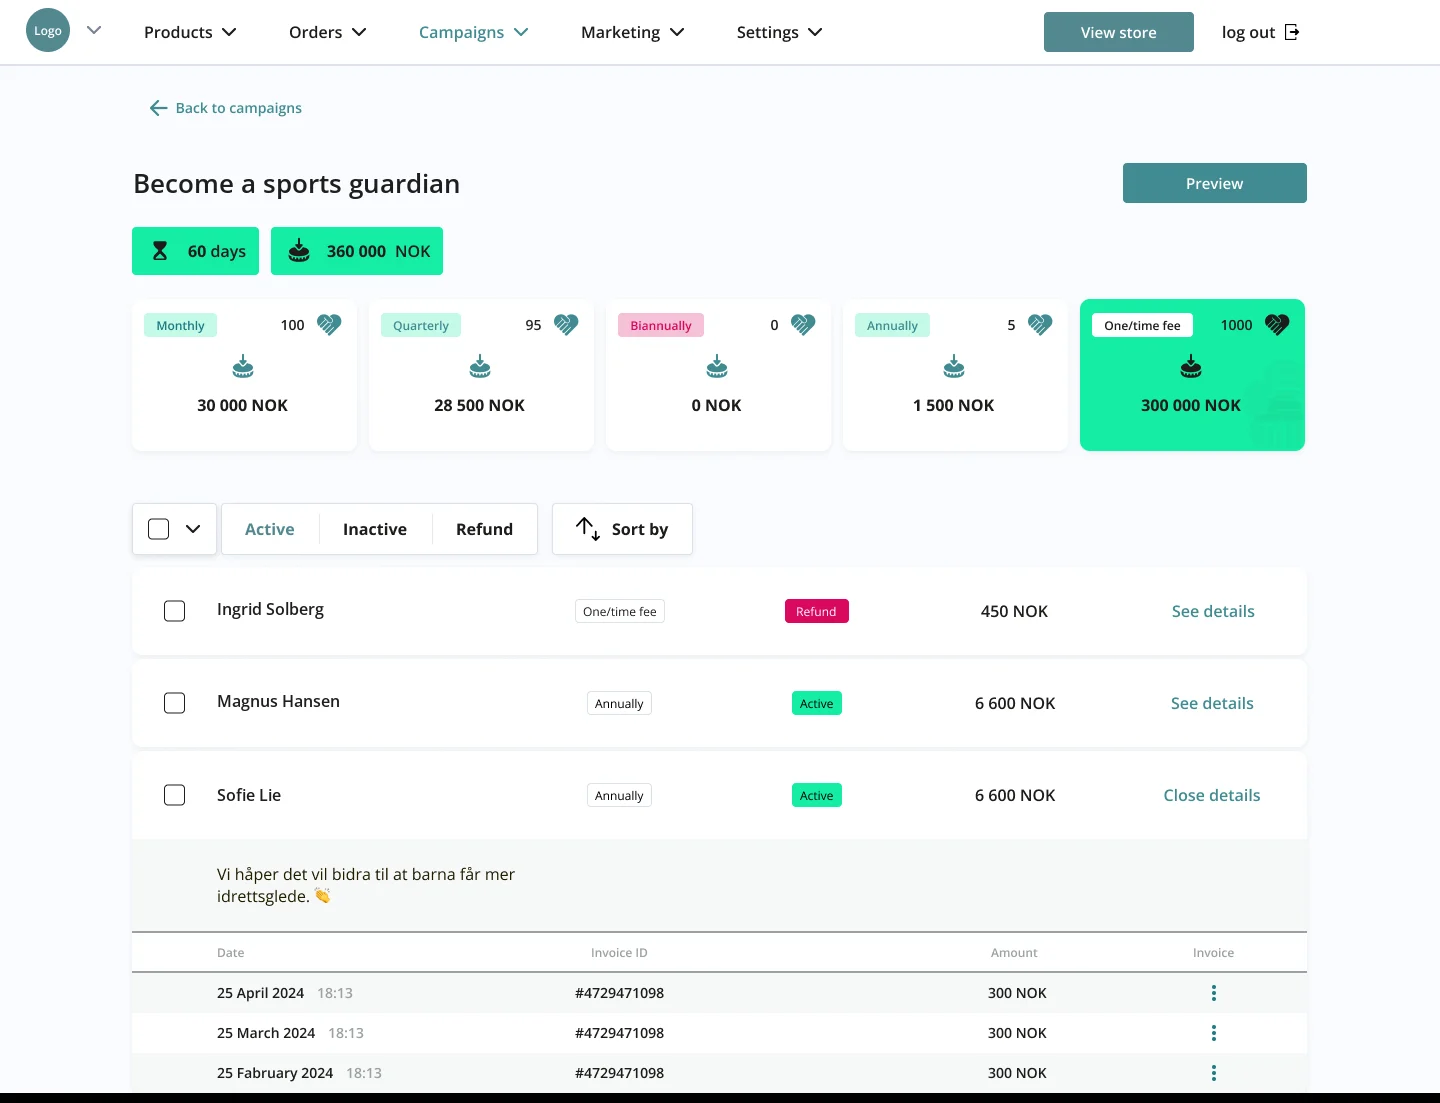
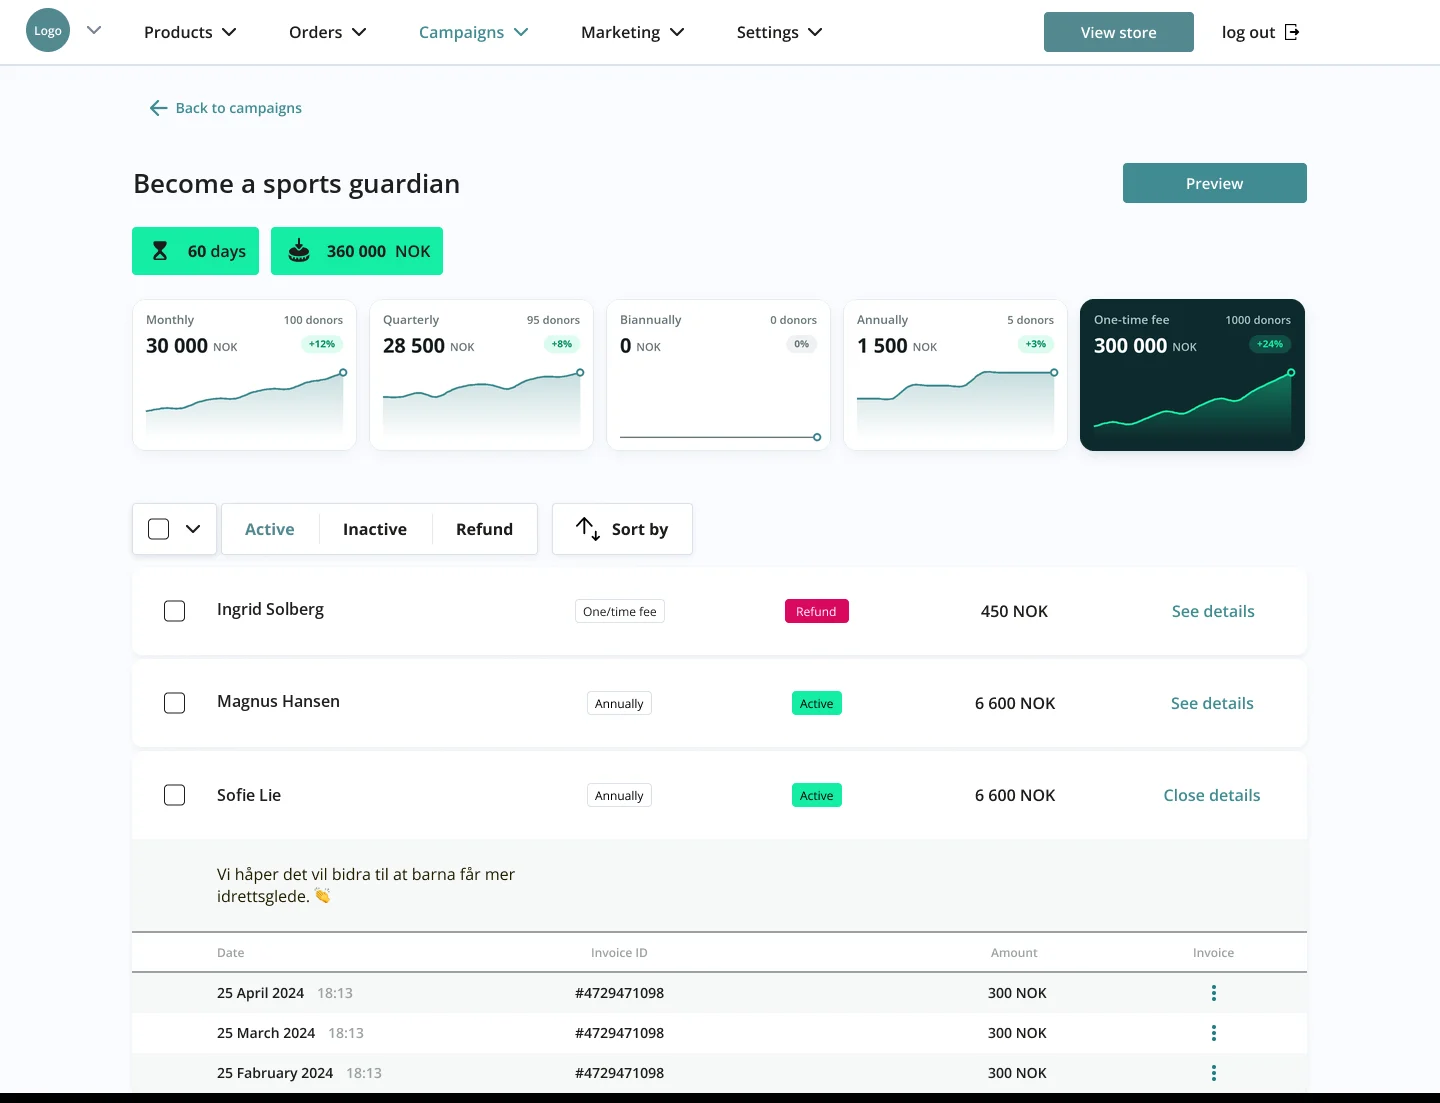
Sport Guardian: dashboard cards with area charts on the admin statistics, admin caption in two lines

Changed region(s): [[0.5938, 0.2466, 0.9062, 0.4316], [0.0938, 0.2774, 0.5, 0.3699], [0.5312, 0.2774, 0.5625, 0.3083]]

diff --git a/SportGuardian.html b/SportGuardian.html
@@ -272,7 +272,7 @@ footer .wrap{display:flex;justify-content:space-between;gap:16px;flex-wrap:wrap}
         <figure class="c1-6 rv"><div class="ph r43"><img src="assets/work/sport-guardian/cap-1536.webp" srcset="assets/work/sport-guardian/cap-768.webp 768w, assets/work/sport-guardian/cap-1536.webp 1536w" sizes="(max-width:720px) 100vw, 640px" alt="A teal five-panel cap with the white and green SG mark in the middle of the front." width="1536" height="1024" loading="lazy"></div></figure>
         <figure class="c7-12 rv" style="--d:.1s"><div class="panel"><img class="el c" src="assets/work/sport-guardian/el-create-donations.webp" alt="From the campaign builder: Accept donations from private persons and companies, and Select donation frequency, from monthly to a one-time fee, each with a short hint." width="1200" height="1183" loading="lazy"></div><figcaption>The club decides who can give and how often, with a hint under every choice.</figcaption></figure>
 
-        <figure class="c1-12 rv scroll"><div class="panel"><div class="browser" style="max-width:1000px"><div class="bar" aria-hidden="true"><i></i><i></i><i></i><span>admin.supporter.no</span></div><div class="vp fx" style="--to:-19.6%;--t:12s;--hd:4.514%"><img class="hd" src="assets/work/sport-guardian/screen-statistik-head.webp" alt="" width="1440" height="65" loading="lazy"><img src="assets/work/sport-guardian/screen-statistik-body.webp" alt="Campaign statistics in the admin panel: days left and amount raised, totals by frequency from monthly to one-time, and a list of donors with their status." width="1440" height="1038" loading="lazy"></div></div></div><figcaption>The admin panel: what each frequency brings in, and every donor, with refunds and cancellations in one place.</figcaption></figure>
+        <figure class="c1-12 rv scroll"><div class="panel"><div class="browser" style="max-width:1000px"><div class="bar" aria-hidden="true"><i></i><i></i><i></i><span>admin.supporter.no</span></div><div class="vp fx" style="--to:-19.6%;--t:12s;--hd:4.514%"><img class="hd" src="assets/work/sport-guardian/screen-statistik-head.webp" alt="" width="1440" height="65" loading="lazy"><img src="assets/work/sport-guardian/screen-statistik-body.webp" alt="Campaign statistics in the admin panel: days left and amount raised, a card with a growth chart for each frequency from monthly to one-time, and a list of donors with their status." width="1440" height="1038" loading="lazy"></div></div></div><figcaption style="max-width:64ch">The admin panel: what each frequency brings in, and every donor, with refunds and cancellations in one place.</figcaption></figure>
       </div>
     </div>
   </section>

diff --git a/tools/sport-guardian/stat_cards.py b/tools/sport-guardian/stat_cards.py
@@ -1,0 +1,75 @@
+"""Modern dashboard cards for the admin statistics (2026-10-13, her request: "more modern, like crypto
+dashboards, with charts"). Redraws the five frequency cards of the statistics screen (1x, x 132-1305,
+y 299-451) as cards with the amount, a growth chip, the donor count and a small area chart.
+The chart data is made up for the mockup. Used by fix_screens.py: cards(im) draws onto the 1x screen.
+"""
+import os, math
+from PIL import Image, ImageDraw, ImageFont, ImageFilter
+HERE = os.path.dirname(os.path.abspath(__file__))
+FONT = lambda w, s: ImageFont.truetype(os.path.join(HERE, 'fonts', f'OpenSans-{w}.ttf'), s)
+TEAL, GREEN, INK, DARK = (65, 139, 145), (21, 237, 163), (24, 32, 34), (14, 42, 45)
+S = 3  # supersampling
+
+# label, amount, donors, change, series (12 points, made up), highlighted
+DATA = [
+    ('Monthly', '30 000', 100, '+12%', [8, 9, 9, 11, 12, 12, 14, 15, 15, 17, 18, 20], False),
+    ('Quarterly', '28 500', 95, '+8%', [10, 10, 11, 10, 12, 13, 13, 12, 14, 15, 15, 16], False),
+    ('Biannually', '0', 0, '0%', [0]*12, False),
+    ('Annually', '1 500', 5, '+3%', [3, 3, 3, 4, 4, 4, 4, 5, 5, 5, 5, 5], False),
+    ('One-time fee', '300 000', 1000, '+24%', [5, 7, 6, 9, 12, 11, 15, 18, 17, 22, 26, 30], True),
+]
+X0, Y0, W, H, GAP = 132, 299, 225, 152, 12
+
+def card(label, amount, donors, change, series, hi):
+    w, h = W*S, H*S
+    im = Image.new('RGBA', (w, h), (0, 0, 0, 0)); d = ImageDraw.Draw(im)
+    bg = DARK if hi else (255, 255, 255)
+    d.rounded_rectangle((0, 0, w-1, h-1), 14*S, fill=bg, outline=None if hi else (228, 234, 238), width=S)
+    fg = (255, 255, 255) if hi else INK; mut = (167, 196, 198) if hi else (106, 119, 124)
+    line = GREEN if hi else TEAL
+    # top: label and donors
+    d.text((14*S, 12*S), label, font=FONT('SemiBold', 12*S), fill=mut)
+    dn = f'{donors} donors'; f = FONT('SemiBold', 11*S); b = d.textbbox((0, 0), dn, font=f)
+    d.text((w-14*S-(b[2]-b[0]), 13*S), dn, font=f, fill=mut)
+    # amount and change chip
+    fa = FONT('Bold', 20*S); d.text((14*S, 32*S), amount, font=fa, fill=fg)
+    aw = d.textbbox((0, 0), amount, font=fa)[2]
+    d.text((14*S+aw+5*S, 40*S), 'NOK', font=FONT('SemiBold', 11*S), fill=mut)
+    up = change != '0%'
+    chip_bg = ((17, 77, 70) if hi else (221, 251, 240)) if up else ((40, 64, 67) if hi else (238, 241, 243))
+    chip_fg = (GREEN if hi else (10, 143, 98)) if up else mut
+    fc = FONT('Bold', 10*S); cb = d.textbbox((0, 0), change, font=fc); cw = cb[2]-cb[0]+16*S
+    cx = w-14*S-cw; d.rounded_rectangle((cx, 36*S, cx+cw, 54*S), 9*S, fill=chip_bg)
+    d.text((cx+8*S-cb[0], 45*S-(cb[3]-cb[1])/2-cb[1]), change, font=fc, fill=chip_fg)
+    # area chart along the bottom
+    top, bot, l, r = 70*S, h-12*S, 14*S, w-14*S
+    mx = max(max(series), 1)
+    pts = [(l+(r-l)*i/(len(series)-1), bot-(bot-top)*(v/mx if max(series) else 0)*0.92-2*S) for i, v in enumerate(series)]
+    # smooth with a simple Catmull-Rom pass
+    sm = []
+    for i in range(len(pts)-1):
+        p0, p1, p2, p3 = pts[max(i-1, 0)], pts[i], pts[i+1], pts[min(i+2, len(pts)-1)]
+        for t in [k/8 for k in range(8)]:
+            t2, t3 = t*t, t*t*t
+            sm.append(tuple(.5*((2*p1[j])+(-p0[j]+p2[j])*t+(2*p0[j]-5*p1[j]+4*p2[j]-p3[j])*t2+(-p0[j]+3*p1[j]-3*p2[j]+p3[j])*t3) for j in (0, 1)))
+    sm.append(pts[-1])
+    fill = Image.new('RGBA', (w, h), (0, 0, 0, 0)); grad = Image.new('L', (1, h), 0)
+    for y in range(h): grad.putpixel((0, y), int(max(0, min(1, (bot-y)/(bot-top)))*(110 if hi else 80)) if top <= y <= bot else 0)
+    mask = Image.new('L', (w, h), 0); ImageDraw.Draw(mask).polygon(sm+[(r, bot), (l, bot)], fill=255)
+    alpha = Image.composite(grad.resize((w, h)), Image.new('L', (w, h), 0), mask)
+    fill = Image.new('RGBA', (w, h), line+(0,)); fill.putalpha(alpha); im = Image.alpha_composite(im, fill)
+    d = ImageDraw.Draw(im)
+    if max(series): d.line(sm, fill=line+(255,), width=int(2*S), joint='curve')
+    else: d.line([(l, bot-2*S), (r, bot-2*S)], fill=mut+(255,), width=int(1.5*S))
+    ex, ey = sm[-1]; d.ellipse((ex-4*S, ey-4*S, ex+4*S, ey+4*S), fill=bg+(255,), outline=line+(255,), width=int(2*S))
+    return im.resize((W, H), Image.LANCZOS)
+
+def cards(im):
+    d = ImageDraw.Draw(im); d.rectangle((X0-6, Y0-6, X0+5*W+4*GAP+6, Y0+H+8), fill=im.getpixel((X0-10, Y0+20)))
+    sh = Image.new('L', im.size, 0); sd = ImageDraw.Draw(sh)
+    for i, row in enumerate(DATA):
+        x = X0+i*(W+GAP); sd.rounded_rectangle((x+2, Y0+6, x+W-2, Y0+H+2), 14, fill=40 if row[5] else 18)
+    sh = sh.filter(ImageFilter.GaussianBlur(6)); im.paste(Image.new('RGB', im.size, (30, 60, 70)), (0, 0), sh)
+    for i, row in enumerate(DATA):
+        c = card(*row); im.paste(c, (X0+i*(W+GAP), Y0), c)
+    return im

diff --git a/tools/sport-guardian/fix_screens.py b/tools/sport-guardian/fix_screens.py
@@ -30,7 +30,8 @@ ab = retext(Image.open(os.path.join(F, '1x', 'admin-business.png')).convert('RGB
              ((366, 698, 600, 725), 'Elvebakken Tennis', (369, 711))], 16)
 save(ab, 'screen-admin-business')
 
-st = Image.open(os.path.join(F, '1x', 'statistik.png')).convert('RGB'); d = ImageDraw.Draw(st)
+from stat_cards import cards
+st = cards(Image.open(os.path.join(F, '1x', 'statistik.png')).convert('RGB')); d = ImageDraw.Draw(st)
 for y, name in [(611, 'Ingrid Solberg'), (703, 'Magnus Hansen'), (795, 'Sofie Lie')]:
     d.rectangle((212, y-16, 525, y+16), fill=(255, 255, 255))
     b = d.textbbox((0, 0), name, font=SEMI); d.text((217-b[0], y-(b[3]-b[1])/2-b[1]), name, font=SEMI, fill=(30, 30, 30))

diff --git a/sportguardian.md b/sportguardian.md
@@ -42,6 +42,7 @@ No em dashes in visible text (her rule).
    - the bottle photo tall (1–5), the small mark on her shirt set lower, on the chest (2026-10-13, her request); the three payment cards staggered on a pale panel (6–12);
    - the cap (1–6), the mark alone centred on the front panel, no name under it (2026-10-13, her request); the campaign builder's "Accept donations from / Select donation frequency" block on a pale panel (7–12): single elements, as she asked, since the full builder page is not its best side;
    - the campaign statistics in the admin panel in a browser frame, scrolling under the fixed admin nav, on a pale panel (1–12).
+   The five frequency cards on the statistics screen are redrawn as modern dashboard cards (2026-10-13, her request: "like crypto dashboards, with charts"): label and donor count, the amount, a growth chip, and a small area chart with a gradient; One-time fee is the highlighted dark card with a green chart. Chart data is made up. Built with [`tools/sport-guardian/stat_cards.py`](tools/sport-guardian/stat_cards.py). The caption under the admin panel runs in two lines (64ch).
    Fixed headers (2026-10-13, her request): each long screen is cut into a header strip and a body (`*-head.webp`, `*-body.webp`) by [`tools/sport-guardian/fix_screens.py`](tools/sport-guardian/fix_screens.py). The same script replaces placeholder texts in the admin screens with made-up names (2026-10-13, her request): the statistics title "Become a sports guardian" and donors Ingrid Solberg, Magnus Hansen, Sofie Lie; the campaigns "Swimming for everyone", "Junior squad 2024"; the clubs Fjordby Svømmeklubb, Nordlys Fotball, Elvebakken Tennis. Not real people or clubs.
    Photos: AI images generated with Figma AI (gpt-image-2.5, her Pro plan, 2026-10-13), not real people or places; the SG mark is printed on them from the vector master with [`tools/sport-guardian/print_photo.py`](tools/sport-guardian/print_photo.py) (it takes the light of the fabric or surface). The poster line "Back a young athlete near you." is placeholder copy written for the mockup (2026-10-13). Mockups, not a real campaign.
 5. **Closing mosaic** — after GEN: on a teal ground, the title SPORT GUARDIAN · PRODUCT AND BRAND in very large capitals as a running line (2026-10-13, her request), then three rows of straight tiles (no tilt, her request) sliding sideways, the middle row the other way; product screens (campaign page, club campaigns, shop, crowdfunding, admin campaigns, clubs overview, statistics, the campaign published screen, image picker, the payment cards) mixed with the brand pieces (hoodie, cap, decks, bottle, poster, the mark). One Pause button stops the title and the rows; with reduced motion they stand still.
